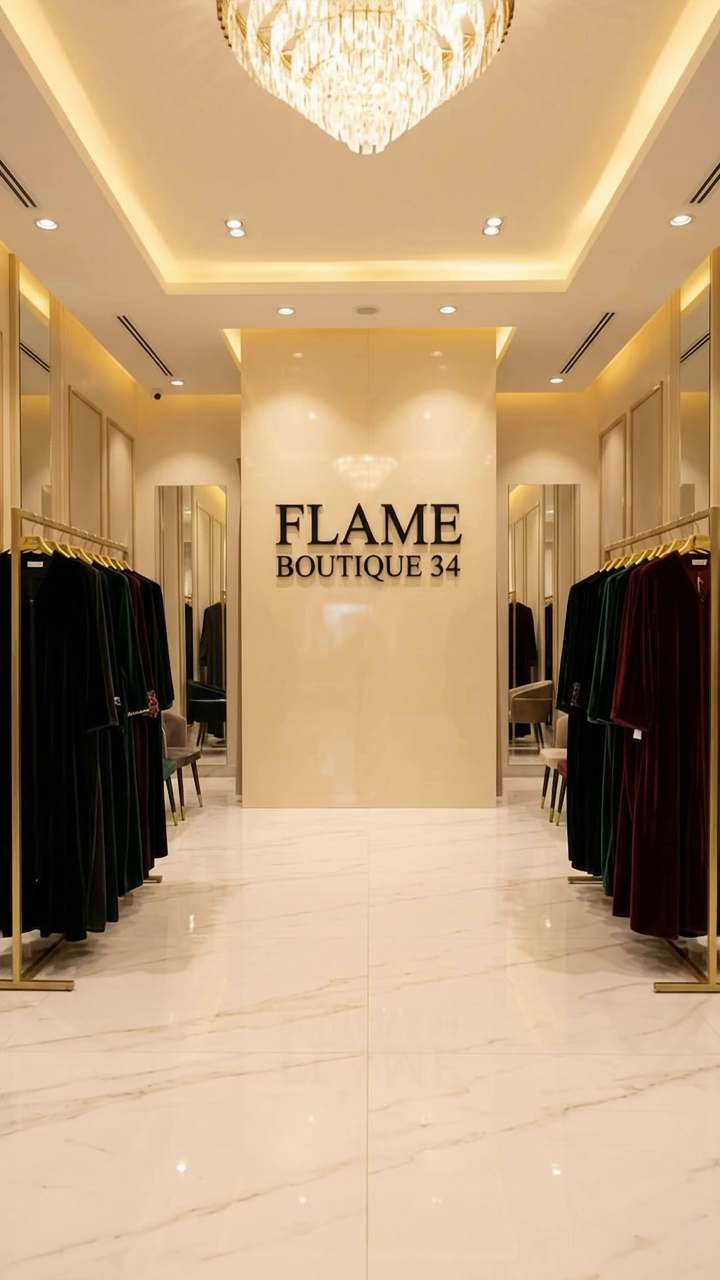
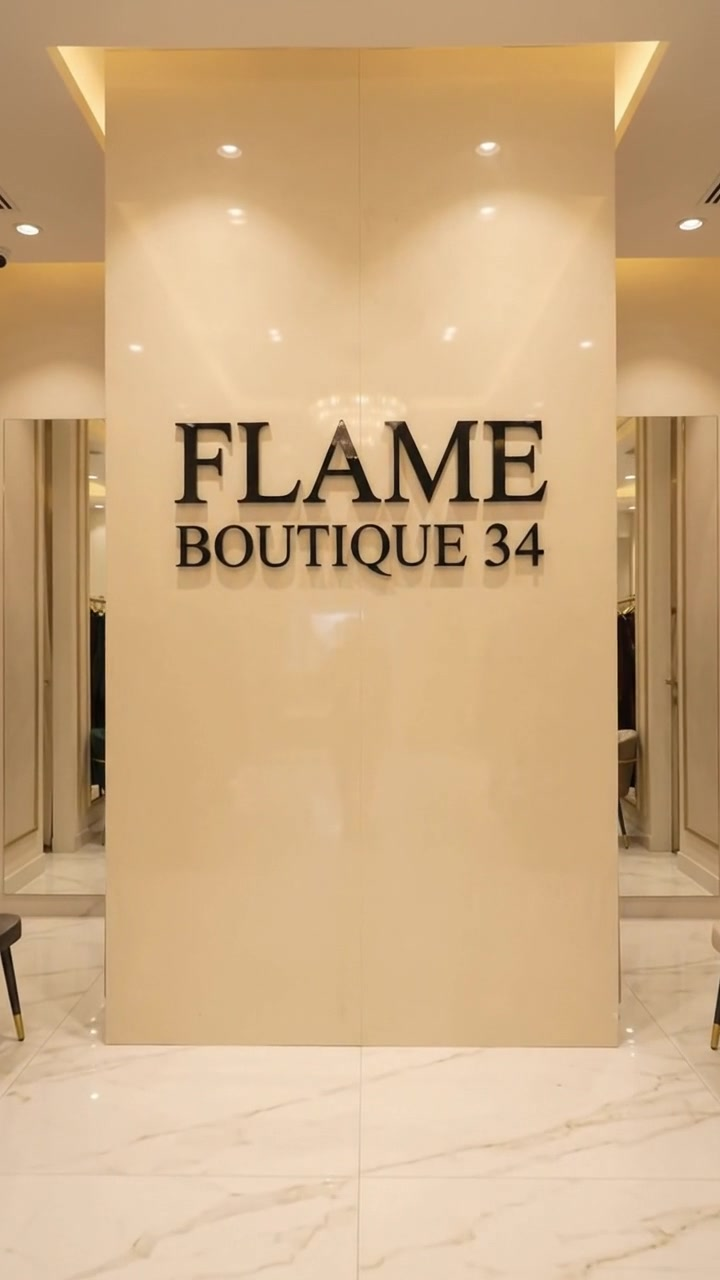
صورة الترحيب: لقطة لافتة المحل من فيديو الهاتف
- استبدال صورتَي الترحيب بلقطة واضحة للافتة «FLAME BOUTIQUE 34» على الجدار:
  نسخة عمودية من الفيديو العمودي (الهاتف)، ونسخة أفقية مطابقة للحاسوب.
- تبسيط صفحة الترحيب: إزالة الشعار والاسم المُضافَين (لأن اللافتة تظهر في
  الصورة نفسها)، والاكتفاء بزرّ تلميح «اضغطي للدخول» أسفل الصورة.
- تحديث اختبار extras ليتحقّق من تحميل صورة الترحيب بدل نصّ مُزال.

Claude-Session: https://claude.ai/code/session_01EfLFRJjsgcmZh6n7zBF6V2

diff --git a/src/index.html b/src/index.html
@@ -36,17 +36,13 @@
 .splash.in{opacity:1}
 .splash.out{opacity:0;pointer-events:none}
 .splash img{position:absolute;inset:0;width:100%;height:100%;object-fit:cover}
-.splash-in{position:relative;z-index:1;width:100%;height:100%;display:grid;align-content:center;justify-items:center;gap:.5rem;text-align:center;color:#F4EAD9;padding:1.5rem;
-  background:radial-gradient(ellipse at center,rgba(25,19,13,.55),rgba(25,19,13,.25) 55%,rgba(25,19,13,.1))}
-.splash-mark{width:54px;height:64px;color:#F4EAD9}
-.splash-flame{fill:var(--ember,#A27A48)}
-.splash-name{font-family:"Marcellus",Georgia,serif;font-size:clamp(1.4rem,6vw,2.6rem);letter-spacing:.18em;margin:.2rem 0 0;line-height:1.1}
-.splash-hint{font-size:.85rem;opacity:.82;letter-spacing:.04em;margin-top:.7rem}
-.splash.in .splash-in>*{animation:splashUp .8s var(--ease,ease) both}
-.splash.in .splash-name{animation-delay:.1s}
-.splash.in .splash-hint{animation-delay:.28s}
+/* the welcome image already shows the boutique's own wall sign, so only a gentle "enter" hint sits over it */
+.splash-in{position:relative;z-index:1;width:100%;height:100%;display:grid;align-content:end;justify-items:center;text-align:center;color:#F4EAD9;padding:0 1.5rem 2.2rem;
+  background:linear-gradient(to top,rgba(25,19,13,.6),rgba(25,19,13,.1) 22%,transparent 42%)}
+.splash-hint{font-size:.92rem;letter-spacing:.06em;padding:.5rem 1.1rem;border-radius:999px;background:rgba(25,19,13,.4);border:1px solid rgba(244,234,217,.3);-webkit-backdrop-filter:blur(4px);backdrop-filter:blur(4px)}
+.splash.in .splash-hint{animation:splashUp .8s var(--ease,ease) both;animation-delay:.3s}
 @keyframes splashUp{from{opacity:0;transform:translateY(12px)}to{opacity:1;transform:none}}
-@media (prefers-reduced-motion:reduce){.splash{transition-duration:.2s}.splash.in .splash-in>*{animation:none}}
+@media (prefers-reduced-motion:reduce){.splash{transition-duration:.2s}.splash.in .splash-hint{animation:none}}
 
 /* ---------- brand lines, shown in the store after the intro ---------- */
 .brand-lines{padding-block:clamp(2rem,6vw,3.6rem) clamp(.6rem,2vw,1rem);text-align:center}
@@ -419,13 +415,8 @@ summary{cursor:pointer;color:var(--ink)}
   <!-- a one-time welcome image: shown once per visitor (kept in the browser), then never again.
        It fades away on its own after a moment, or on a tap/scroll, and the store is underneath. -->
   <div class="splash" id="splash" aria-hidden="true" hidden>
-    <picture><source media="(orientation: portrait)" srcset="assets/intro-poster-p.jpg"><img src="assets/intro-poster.jpg" alt="" fetchpriority="high"></picture>
+    <picture><source media="(orientation: portrait)" srcset="assets/intro-poster-p.jpg"><img src="assets/intro-poster.jpg" alt="Flame Boutique 34" fetchpriority="high"></picture>
     <div class="splash-in">
-      <svg class="splash-mark" viewBox="0 0 30 36" aria-hidden="true">
-        <path fill="none" stroke="currentColor" stroke-width="1.3" d="M2 35V14a13 13 0 0 1 26 0v21"/>
-        <path class="splash-flame" d="M15 12c2 3.5 5.5 5.5 5 10a5 5 0 0 1-10 0c-.3-3.3 2.6-4.6 3.2-7 .6 1.5 1.2 2 1.8 2.4.4-1.6.3-3.3 0-5.4Z"/>
-      </svg>
-      <p class="splash-name">FLAME BOUTIQUE 34</p>
       <span class="splash-hint" data-i18n="welcomeHint"></span>
     </div>
   </div>
